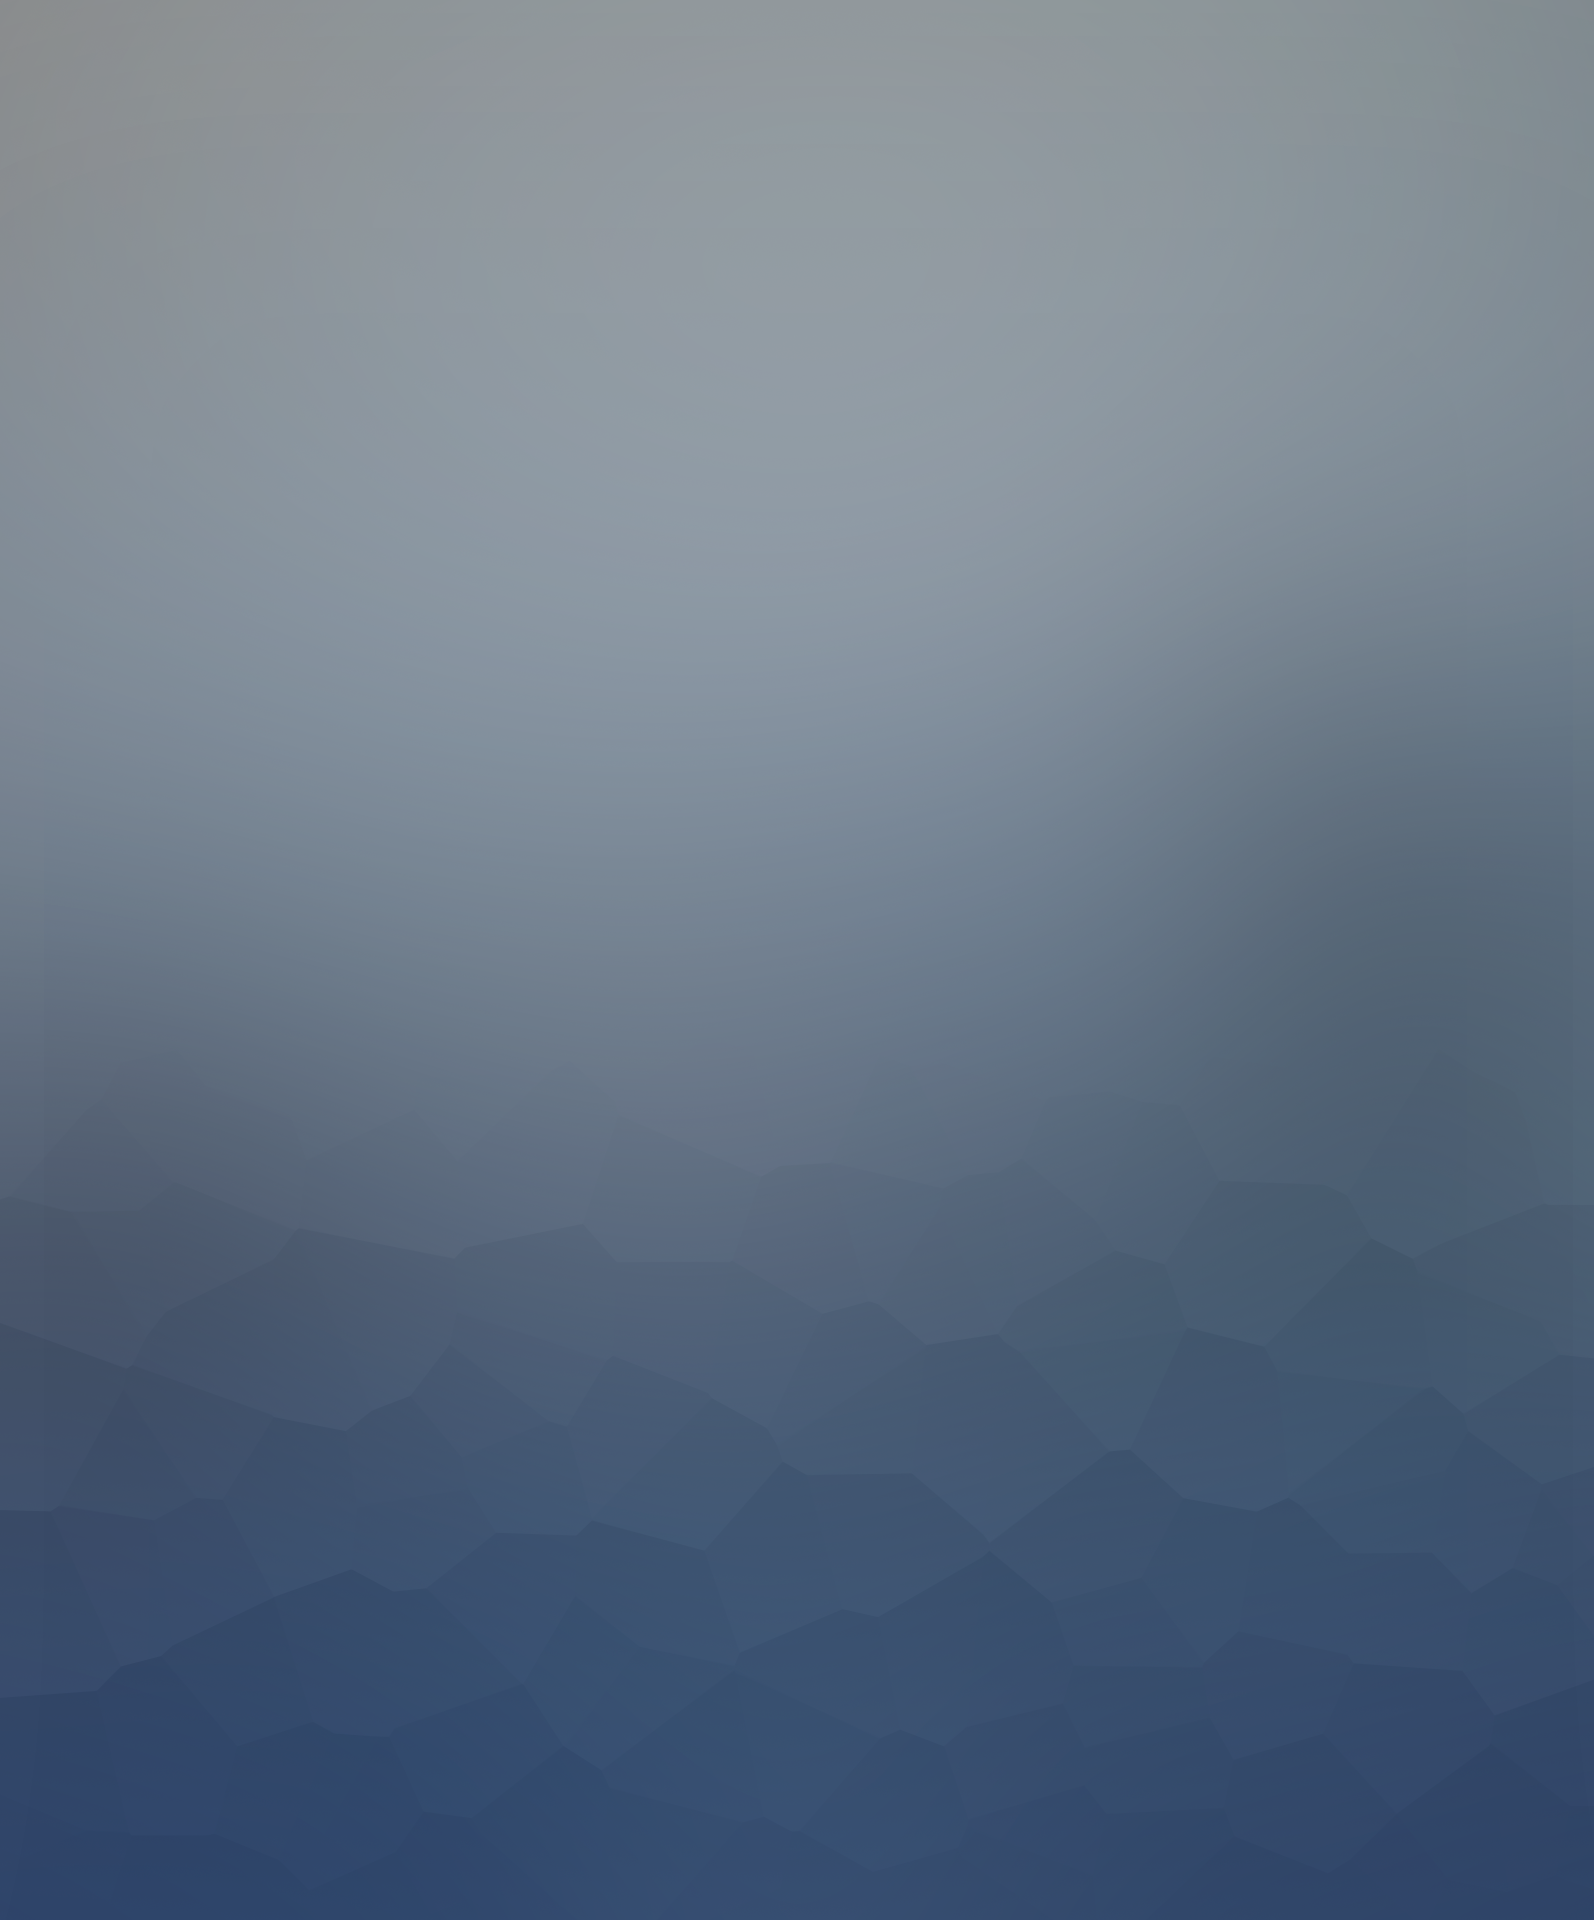
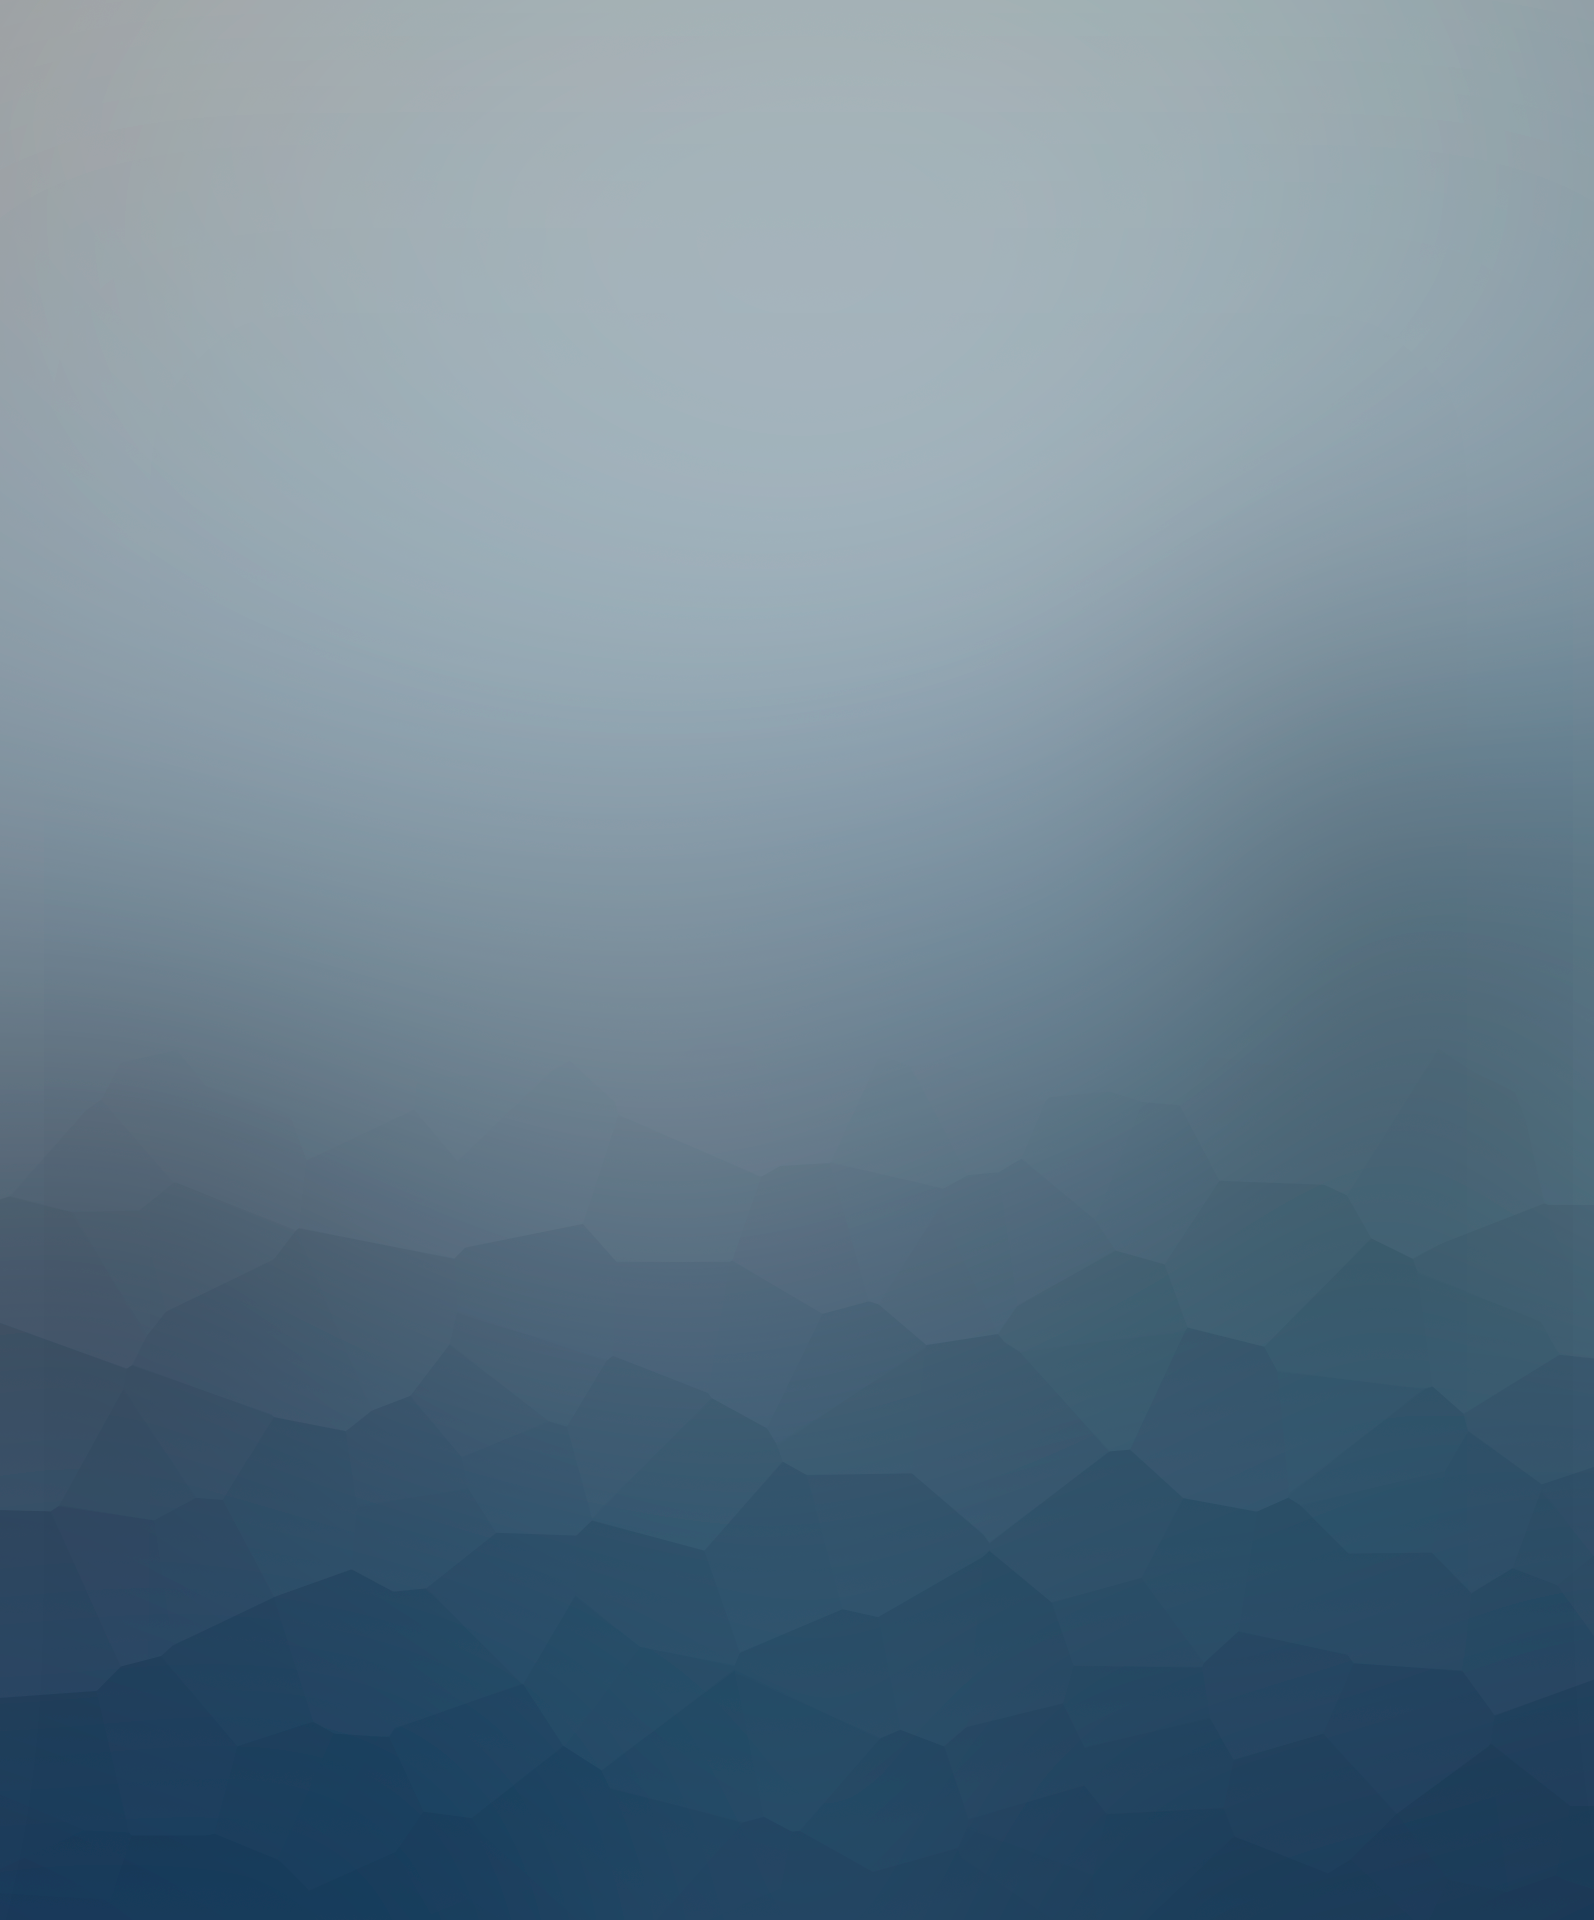
Смена цветов всех элементов, нет смены шрифтов.
Есть баг - при включенной НЕ стандартной теме новые будильники создаются в цвете стандартной.

Changed region(s): [[0.123, 0.0, 0.9222, 0.1875], [0.2152, 0.9688, 0.2459, 1.0]]

diff --git a/app.js b/app.js
@@ -102,17 +102,21 @@ $("ul").on("click touchstart", ".arrow-4", function () {
       600
     );
   }
-});
+}); 
 
 $(function () {
-  $('.changeColor').click(function() {
+  $('.theme').click(function() {
    console.log('1234');
-   let colorsText = ['red', 'blue','green'];
-   let colorsButtons = ['green', 'red','blue'];
-   let images = [ 'url(jpg/app_background_2.jpg)','url(jpg/app_background_3.jpg)','url(jpg/app_background.png)'];
+   let images = [ 'url(jpg/app_background_1.png)','url(jpg/app_background_2.png)','url(jpg/app_background.png)'];
+   let buttCust = ['rgba(83,136,173,0.5))','rgba(35,43,86,0.8)','rgba(91, 91, 91, 0.3)'];
+   let theme = ['rgba(83,136,173,0.5))','rgba(35,43,86,0.8)','rgba(91, 91, 91, 0.3)'];
+   let main = ['rgba(83,136,173,0.5))','rgba(35,43,86,0.8)','rgba(91, 91, 91, 0.3)'];
+   let addTimer = ['rgba(83,136,173,0.5))','rgba(35,43,86,0.8)','rgba(91, 91, 91, 0.3)'];
    $('body').css('background-image', images[app.count]);
-   $('.tabtxt').css('color', colorsText[app.count]);
-   $('.tablinks').css('color', colorsButtons[app.count]);
+   $('.buttCust').css('background-color', buttCust[app.count]);
+   $('.theme').css('background-color', theme[app.count]);
+   $('.budilnik').css('background-color', main[app.count]);
+   $('.addTimer').css('background-color', addTimer[app.count]);
    app.count++; 
   if (app.count > 2){
     app.count = 0;

diff --git a/index.html b/index.html
@@ -36,7 +36,7 @@
             <div class="main_bud">
                 <ul id="spisokBud" class="spisok_bud">
                 </ul>
-            <button id="add_timer"></button>
+            <button id="add_timer" class="addTimer"></button>
             </div>
         </main>
     </div>
@@ -45,17 +45,17 @@
         <main>
             <dir class="base">
                 <dir class="wrap">
-                    <button class="changeColor" onclick="changeColor()">
+                    <button class="theme" onclick="changeColor()">
                         <h4 class="custtxt">Смена темы</h4>
                     </button>
                 </dir>
                 <dir class="wrap">
-                    <button class="buttcust">
+                    <button class="buttCust">
                         <h4 class="custtxt">Смена мелодии</h4>
                     </button>
                 </dir>
                 <dir class="wrap">
-                    <button class="buttcust">
+                    <button class="buttCust">
                         <h4 class="custtxt">О разработчиках</h4>
                     </button>
                 </dir>

diff --git a/css/main.css b/css/main.css
@@ -313,7 +313,7 @@ input[type='checkbox']:checked + .slider:before {
     height: 80px;
     margin-bottom: 20px;
   }
-    .buttcust{
+    .buttCust{
       background-color: rgba(91, 91, 91, 0.3);
       border-color: rgba(91, 91, 91, 0.3);
       border: none;
@@ -321,16 +321,8 @@ input[type='checkbox']:checked + .slider:before {
       width: 100%;
       height: 100%;
     }
-    .changeColor{
+    .theme{
       background-color: rgba(91, 91, 91, 0.3);
-      border-color: rgba(91, 91, 91, 0.3);
-      border: none;
-      border-radius: 10px;
-      width: 100%;
-      height: 100%;
-    }
-    .changeColor:active{
-      background-color: rgba(91, 91, 91, 0.5);
       border-color: rgba(91, 91, 91, 0.3);
       border: none;
       border-radius: 10px;
